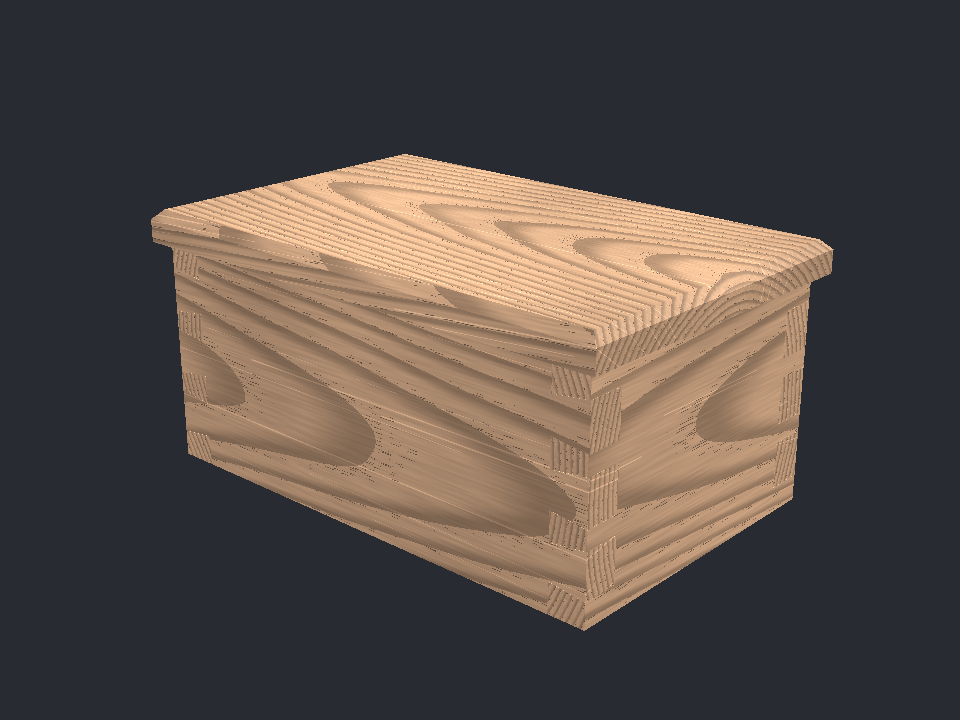
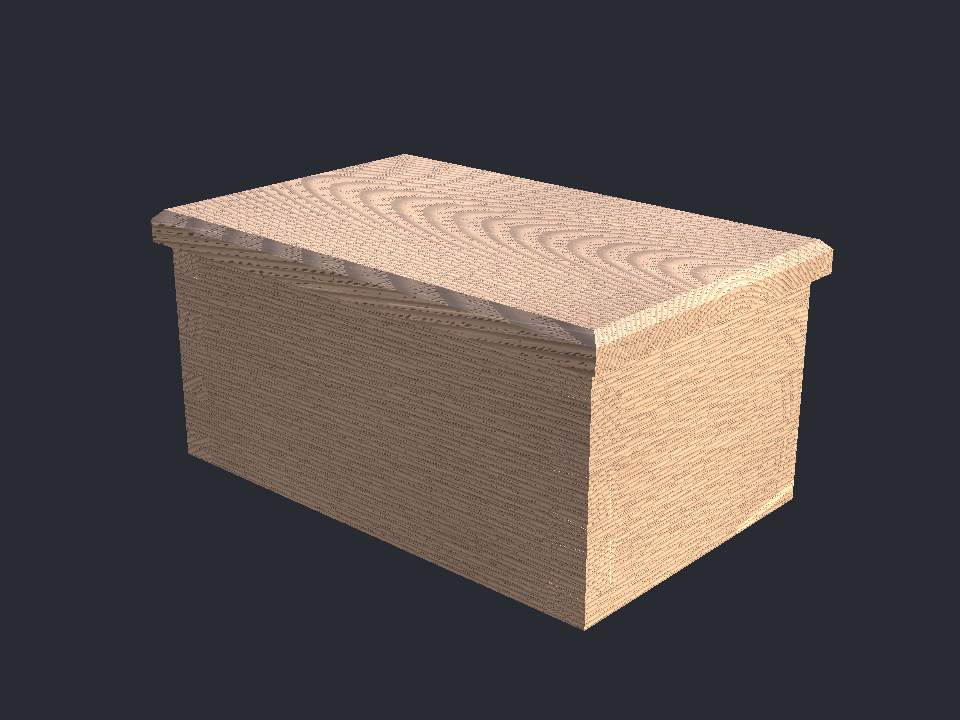
CH4 look pass: rift side boards, pore/ray density to scan, key light and bump, bars S P Y M
Claude-Session: https://claude.ai/code/session_01MWRVfiDPnee99dT9z6iMz9

Changed region(s): [[0.1562, 0.2139, 0.875, 0.8861]]

diff --git a/native/src/kine_wood_native.cpp b/native/src/kine_wood_native.cpp
@@ -10,7 +10,7 @@ namespace {
 
 const double PI2 = 6.283185307179586476925286766559;
 const double EWR = 0.804, EWG = 0.635, EWB = 0.486, LATE_K = 0.77;
-const double PORE_CELL = 0.42, PORE_STRETCH = 8.0;
+const double PORE_CELL = 0.32, PORE_STRETCH = 8.0;
 const int RAY_SLOTS = 240;
 
 inline double hash3(int64_t x, int64_t y, int64_t z, int64_t s) {
@@ -71,15 +71,15 @@ PackedFloat32Array KineWoodNative::sample(const PackedVector3Array &p_pts, const
 		double h1 = hash3(gi, 5, 5, seed + 3);
 		double lw = sstep(0.45, 0.93, f) * (0.8 + 0.4 * h1);
 		double tone = 1.0 + (LATE_K - 1.0) * std::min(lw, 1.0);
-		double ewz = 1.0 - sstep(0.0, 0.3, f);
+		double ewz = 1.0 - sstep(0.1, 0.7, f);
 		double pa = a2 / PORE_CELL, pb = b2 / PORE_CELL, pt = t / (PORE_CELL * PORE_STRETCH);
 		int64_t ci = (int64_t)std::floor(pa), cj = (int64_t)std::floor(pb), ck = (int64_t)std::floor(pt);
-		double cx = 0.5 + 0.3 * (2.0 * hash3(ci, cj, ck, seed + 31) - 1.0);
-		double cy = 0.5 + 0.3 * (2.0 * hash3(ci, cj, ck, seed + 32) - 1.0);
+		double cx = 0.5 + 0.12 * (2.0 * hash3(ci, cj, ck, seed + 31) - 1.0);
+		double cy = 0.5 + 0.12 * (2.0 * hash3(ci, cj, ck, seed + 32) - 1.0);
 		double dx = (pa - ci) - cx, dy = (pb - cj) - cy;
 		double e = std::sqrt(dx * dx + dy * dy);
 		double present = hash3(ci, cj, ck, seed + 34) < pore_p * ewz ? 1.0 : 0.0;
-		double pore = present * (1.0 - sstep(0.17, 0.26, e));
+		double pore = present * (1.0 - sstep(0.2, 0.32, e));
 		tone *= 1.0 - 0.45 * pore;
 		double ray = 0.0;
 		if (rho0 > 4.0) {

diff --git a/docs/CH4_FEEDBACK.md b/docs/CH4_FEEDBACK.md
@@ -27,3 +27,16 @@
 - Finer ring profile for flat-sawn faces (a second, faster latewood line, per-ring width variation), denser pores and rays, a normal map from the pore mask.
 - A UI picker for solid oak on any body (today it is a spec in the look: `{"mat": {"kind": "oak3d", "pith": [..], "dir": [..]}}`).
 - The GDScript fallback bake is 85x slower than C++ (fine for tests, slow for big faces).
+
+## Look pass (lead's four items)
+New bars, written first and run on the old build (all failed except Y; before -> after):
+- S largest single-ring patch per long face < 8 %: before Front 31.4 / Back 30.2 / Left 34.6 / Right 31.7 / Lid 12.5 %; after 2.2 / 2.3 / 2.1 / 2.8 / 6.6 %. The lenses are gone.
+- P pores per mm2 on the end face within 30 % of the 1200 dpi scan (4.92): before 0.58; after 4.04.
+- Y ray crossings per mm along a ring (scan 0.55): before 0.41; after 0.575. The scan figure is sensitive to prominence (0.3 to 0.8 depending on threshold); the model figure uses the model's own ray mask, the scan figure a difference-of-Gaussians, so the two detectors differ.
+- M highlight (p99/median luminance >= 1.35): before corner 1.20, box 1.50 (corner failed); after 1.97 / 1.80.
+- Fix for S: the side boards are now rift/quarter-sawn (pith in the face plane, 150+ mm away, rings 1.4-1.7 mm). Only moving a flat-sawn pith away would keep a near-tangent cut, which conflicts with E2. The lid stays flat-sawn (the cathedral). Right board pith x moved 140 -> 40 so its 12 mm edge face does not sit inside one ring (E4 had one face with no countable pores).
+- Lighting: sky + shadowed key light + weak fill in the test render, plus shader derivative bump, roughness 0.38..0.8 (lower on pores), clearcoat 0.35. Colour stays FRESH oak (light zone 0.80/0.64/0.49): aged oak is a material choice, not physics.
+- s224 on a clean db9328ec worktree: the View > Realistic fail is PRE-EXISTING (identical: 21 ok / 1 fail "VIEW > Realistic is a button in the View menu").
+- Reruns: ch4 0 fail, easypart 0 fail, peasy3 0 fail.
+
+Honest look: the lenses are gone and the lid arches and chamfer read well, but at box scale the 1.5 mm side-board stripes alias into a fine moire and, on the corner close-up, side stripes and end grain look alike so the dovetails read less than before. Next: a ring-width mip fade and a stronger end-grain tone.
